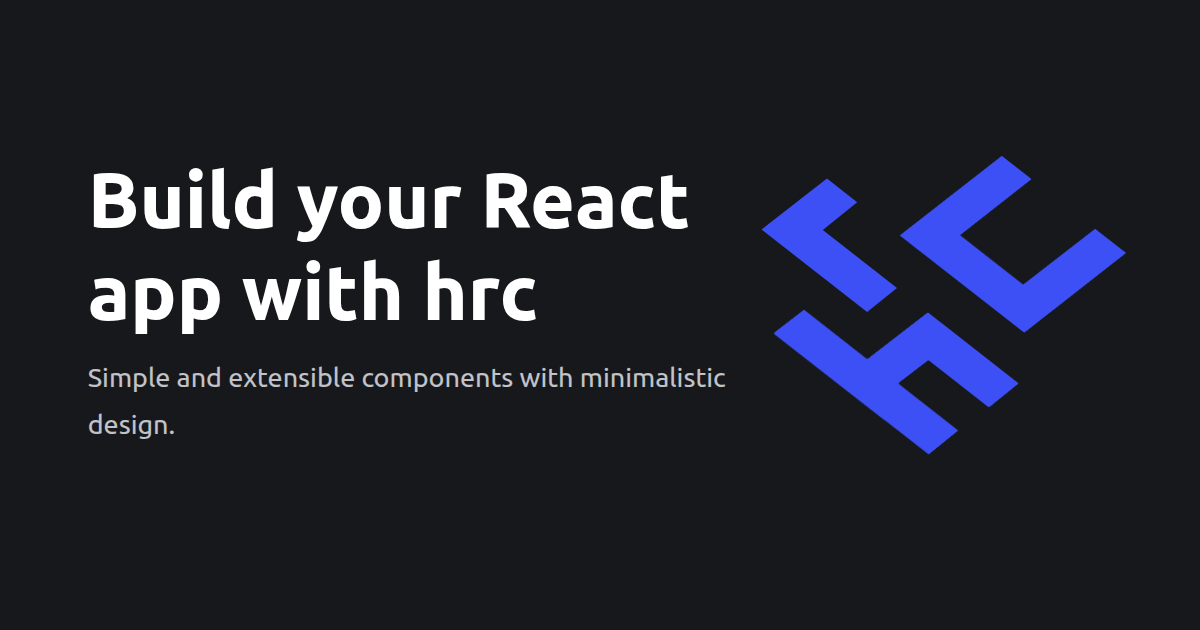
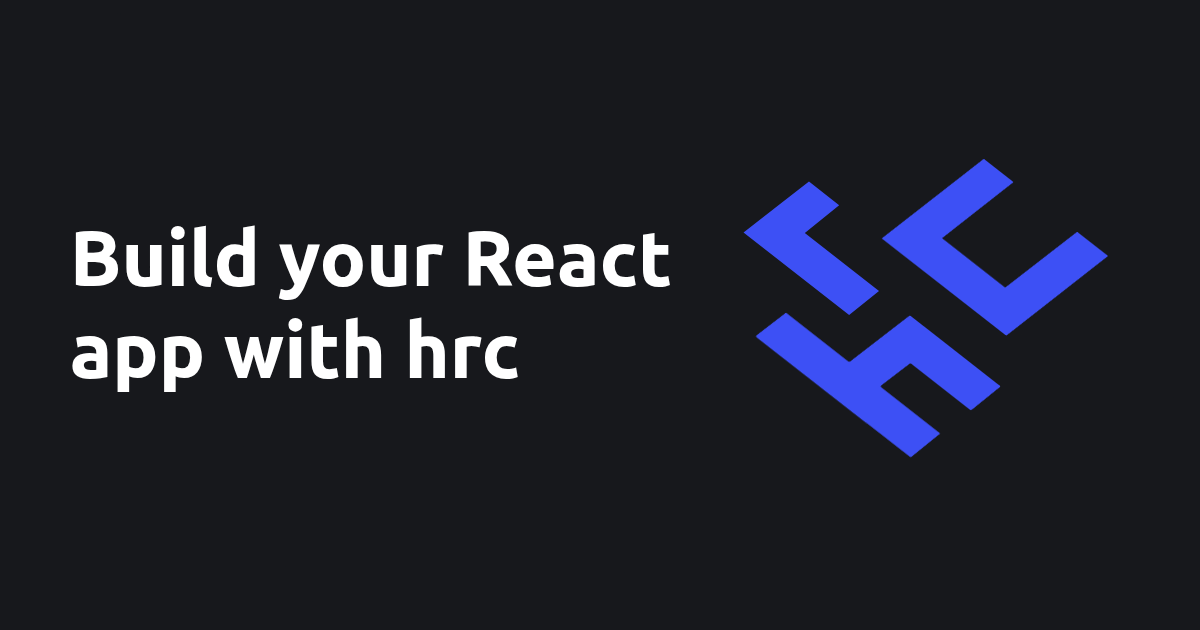
refactor(website): simplify content of OpenGraph image

diff --git a/.changeset/fine-sheep-feel.md b/.changeset/fine-sheep-feel.md
@@ -1,0 +1,5 @@
+---
+"@hrc/website": patch
+---
+
+Simplify content of OpenGraph image
